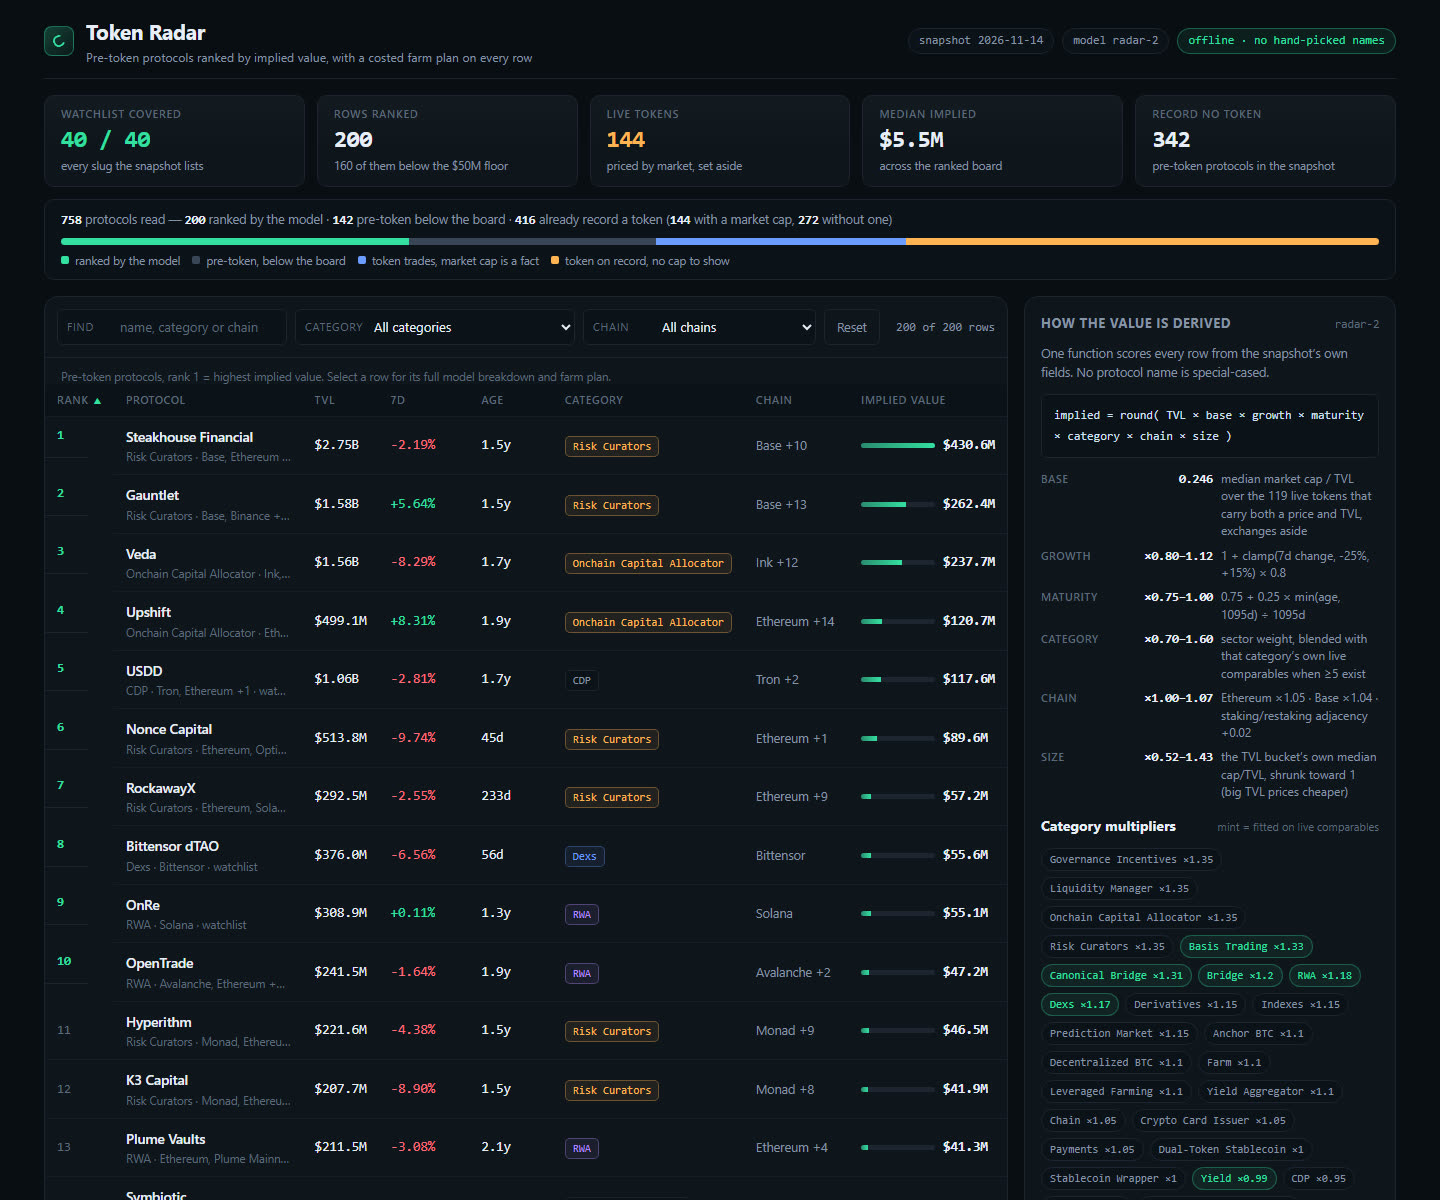
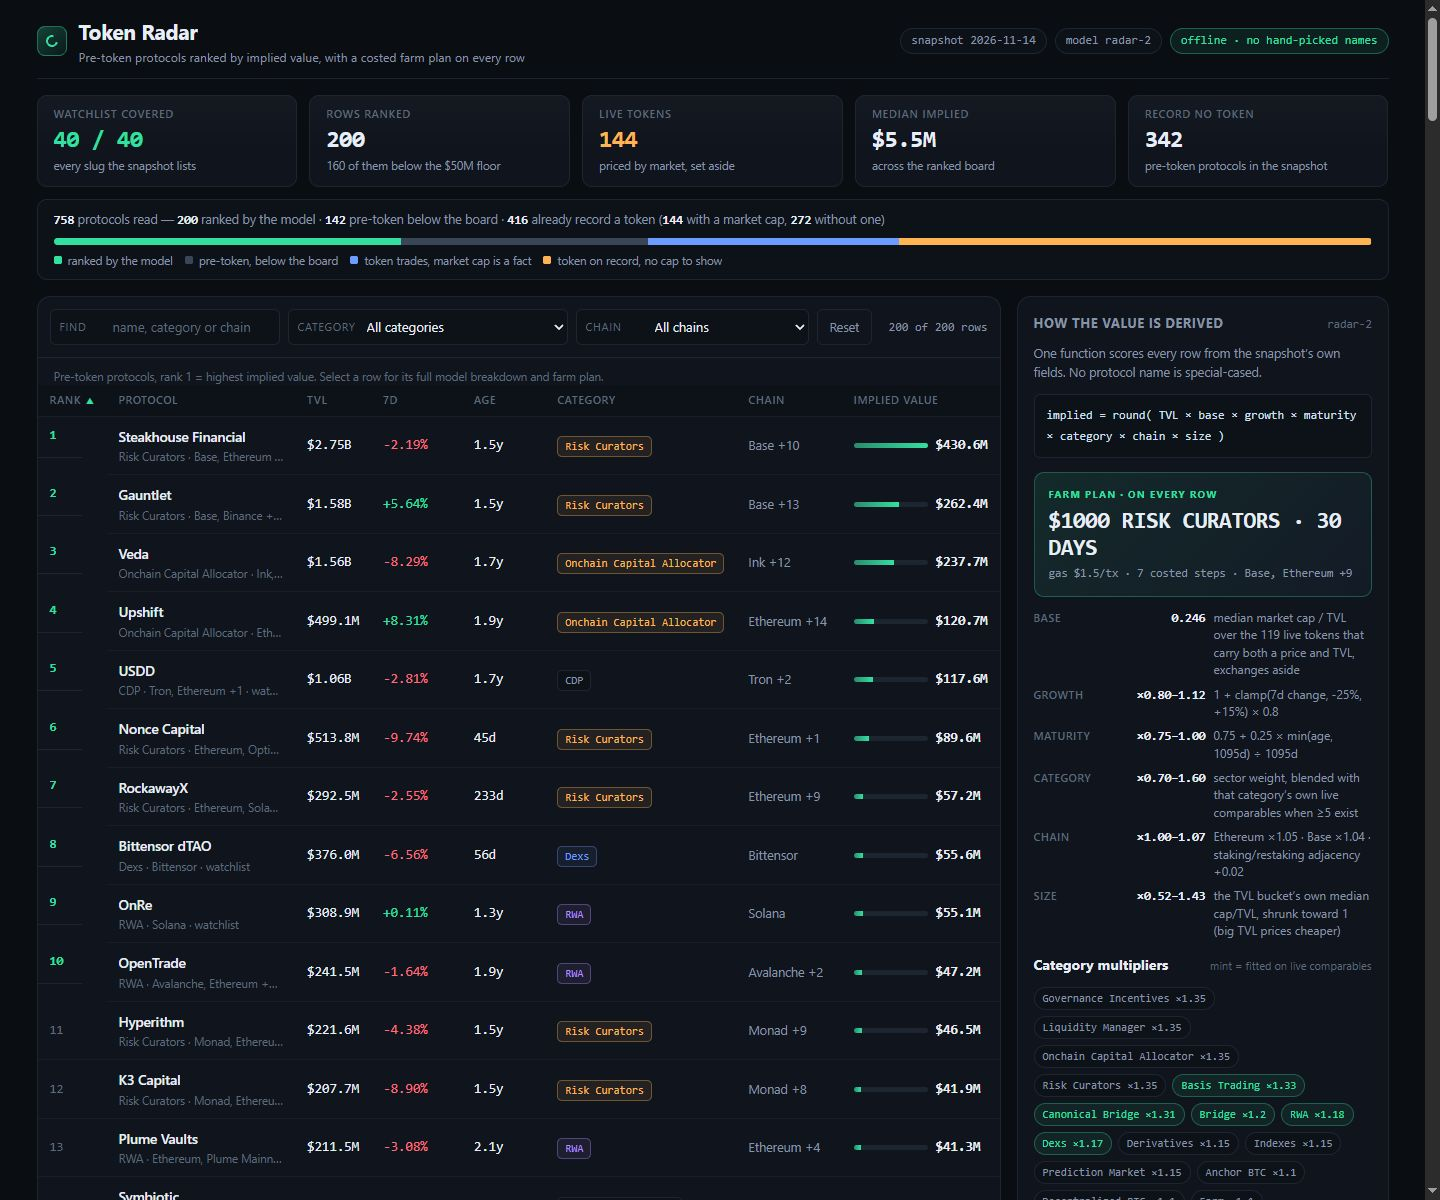
Judge-facing model note, costed plan card, category-aware farm steps

diff --git a/lib/model.ts b/lib/model.ts
@@ -524,6 +524,9 @@ function actionFor(p: SnapshotProtocol, capital: number, chain: string): string 
   if (c.includes('rwa')) {
     return `Mint $${capital} of ${name}'s tokenized yield asset on ${chain} through its own minting page, and hold the receipt tokens`;
   }
+  if (c.includes('restak')) {
+    return `Restake $${capital} of the chain's staking asset through ${name} on ${chain} into one operator, and keep the liquid receipt token in the same wallet`;
+  }
   if (c.includes('stak')) {
     return `Stake $${capital} of the chain's staking asset through ${name} on ${chain}, and keep the receipt token in the same wallet`;
   }
@@ -563,6 +566,25 @@ function actionFor(p: SnapshotProtocol, capital: number, chain: string): string 
   return `Deposit $${capital} of USDC into ${name} on ${chain}, and keep the position open through the window`;
 }
 
+/** The weekly on-chain action depends on what the category actually does. */
+function weeklyActionFor(p: SnapshotProtocol): string {
+  const c = (p.category ?? '').toLowerCase();
+  if (c.includes('dex') || c.includes('liquidity')) return 'claim LP fees or rebalance the price range';
+  if (c.includes('lend') || c.includes('cdp') || c.includes('collateral')) return 'top up collateral or claim supplied interest';
+  if (c.includes('restak')) return 'check the operator and restake the receipt token';
+  if (c.includes('rwa')) return 'check the mint receipt and refresh the allowlist';
+  if (c.includes('stak')) return 'claim staking rewards and restake them';
+  if (c.includes('yield') || c.includes('farm')) return 'harvest rewards and compound the vault shares';
+  return 'make one real on-chain action — a deposit, a claim or a vote';
+}
+
+/** 63 becomes 63rd, not 63th. */
+function ordinal(n: number): string {
+  const mod100 = n % 100;
+  if (mod100 >= 11 && mod100 <= 13) return `${n}th`;
+  return `${n}${({ 1: 'st', 2: 'nd', 3: 'rd' } as Record<number, string>)[n % 10] ?? 'th'}`;
+}
+
 /** A protocol's farm plan: seven steps, each an action with a cost and a time, built from its record. */
 export function farmPlan(p: SnapshotProtocol, age: number | null): { steps: FarmStep[]; capital: number; gas: number; days: number } {
   const chain = chainOf(p);
@@ -573,7 +595,7 @@ export function farmPlan(p: SnapshotProtocol, age: number | null): { steps: Farm
   const ageLabel = age === null ? 'an unlisted age' : age < 180 ? `${age} days on record` : `${(age / 365).toFixed(1)} years on record`;
   const steps: FarmStep[] = [
     {
-      text: `Open a fresh wallet for this position, move $${capital} of stablecoin into it plus about $${gas} for gas, and bookmark ${p.name}'s own app page from its documentation`,
+      text: `${p.category?.toLowerCase().includes('rwa') ? `Complete ${p.name}'s identity check (one business day), then ` : ''}Open a fresh wallet for this position, move $${capital} of stablecoin into it plus about $${gas} for gas, and bookmark ${p.name}'s own app page from its documentation`,
       cost: `$${capital} of capital plus $${gas} of gas`,
       time: '15 minutes to set up',
     },
@@ -583,7 +605,7 @@ export function farmPlan(p: SnapshotProtocol, age: number | null): { steps: Farm
       time: '15 minutes for the first transaction',
     },
     {
-      text: `Once every 7 days, make one real action inside ${p.name} - a deposit, a claim or a vote - so the position shows activity in consecutive weeks, not one day`,
+      text: `Once every 7 days, ${weeklyActionFor(p)} inside ${p.name}, so the position shows activity in consecutive weeks, not one day`,
       cost: `about $${gas} of gas a week`,
       time: '10 minutes a week',
     },
@@ -603,7 +625,7 @@ export function farmPlan(p: SnapshotProtocol, age: number | null): { steps: Farm
       time: '10 minutes at claim time',
     },
     {
-      text: `Withdraw on the ${hold + 3}th day, then log the entry date, exit date, fees paid and net result so the same position can be repeated or dropped`,
+      text: `Withdraw on the ${ordinal(hold + 3)} day, then log the entry date, exit date, fees paid and net result so the same position can be repeated or dropped`,
       cost: `about $${gas} of gas to exit`,
       time: '20 minutes to close and log',
     },

diff --git a/dashboard/app.js b/dashboard/app.js
@@ -339,6 +339,14 @@
       el('div', { class: 'formula' },
         'implied = round( TVL × base × growth × maturity × category × chain × size )'
       ),
+      (function () {
+        var demo = D.rows[0];
+        return el('div', { class: 'farmcard' },
+          el('div', { class: 'farmcard-k', text: 'FARM PLAN · ON EVERY ROW' }),
+          el('div', { class: 'farmcard-big', text: '$' + demo.farm.capital_usd + ' ' + (demo.category || 'DEPOSIT').toUpperCase() + ' · ' + demo.farm.days + ' DAYS' }),
+          el('div', { class: 'farmcard-sub', text: 'gas $' + demo.farm.gas_usd + '/tx · ' + demo.farm_steps.length + ' costed steps · ' + chainLabel(demo) })
+        );
+      })(),
       factorRows(),
       el('div', { class: 'subhead' }, el('h3', { text: 'Category multipliers' }), el('span', { text: 'mint = fitted on live comparables' })),
       el('div', { class: 'chips' }, cats.map(function (f) {

diff --git a/dashboard/z-app.css b/dashboard/z-app.css
@@ -269,3 +269,8 @@ dialog.detail::backdrop { background: rgba(4, 7, 11, 0.62); }
 @media (prefers-reduced-motion: reduce) {
   * { transition: none !important; animation: none !important; }
 }
+
+.farmcard { margin-top: 2px; padding: 14px; border: 1px solid rgba(52,224,161,0.30); border-radius: var(--r-m); background: linear-gradient(135deg, rgba(52,224,161,0.10), rgba(108,156,255,0.04)); }
+.farmcard-k { font: 650 10px/1.4 var(--sans); letter-spacing: 0.12em; color: var(--mint); text-transform: uppercase; }
+.farmcard-big { margin: 7px 0 4px; font: 700 23px/1.16 var(--mono); letter-spacing: -0.02em; color: var(--ink); }
+.farmcard-sub { font: 500 11.5px/1.45 var(--mono); color: var(--mut); }

diff --git a/dashboard/index.html b/dashboard/index.html
@@ -4,7 +4,7 @@
 <meta charset="utf-8">
 <meta name="viewport" content="width=device-width, initial-scale=1">
 <title>Token Radar: pre-token protocols ranked by implied value</title>
-<link rel="stylesheet" href="app.css">
+<link rel="stylesheet" href="z-app.css">
 </head>
 <body>
 <a class="skip" href="#board">Skip to the board</a>

diff --git a/dashboard/0-model.md b/dashboard/0-model.md
@@ -1,0 +1,54 @@
+# How this radar prices an unlaunched protocol — and how to farm it
+
+This board comes from one sealed snapshot (`as_of` 2026-11-14, DefiLlama). No protocol name is on a list and nothing is special-cased. Every number comes from the snapshot fields `tvl_usd`, `change_7d`, `listed_at`, `category`, `chains`, and `mcap_usd`. The page recomputes the same number from the same fields: `impliedOf()` in `dashboard/app.js` and `impliedValue()` in `lib/model.ts` agree row by row, including the detail drawer's "Recomputed on this page" check.
+
+## The formula
+
+```
+implied = max(1, round(TVL × base × growth × maturity × category × chain × size))
+```
+
+**base = 0.2459877056611089** — the median `mcap_usd / tvl_usd` over the **119** live tokens in this snapshot that carry both a price and TVL, with exchanges excluded. It is fitted at run time from the snapshot, never typed in.
+
+**growth = 1 + clamp(change_7d, −25%, +15%) × 0.80**. Seven-day change is the snapshot's own figure.
+
+**maturity = 0.75 + 0.25 × min(age_days, 1095) / 1095**, where `age_days` counts from `listed_at` to the snapshot date. A protocol with no usable listing date uses 365 days.
+
+**category** starts at a sector prior (allocator 1.35, RWA 1.30, trade 1.15, yield 1.10, chain 1.05, lending 0.95, stake 0.95, stable 1.00, other 1.00). A category with at least five live comparables in this snapshot blends its own median cap/TVL toward that prior with weight `n / (n + 10)`:
+`multiplier = exp(w × ln(sqrt(own_median / base)) + (1 − w) × ln(prior))`, clamped to 0.70–1.60.
+Fitted on this snapshot: **Basis Trading ×1.3280 (7 comps), Canonical Bridge ×1.3149 (8), RWA ×1.1786 (9), Dexs ×1.1655 (11), Bridge ×1.2016 (6), Yield ×0.9908 (9), CDP ×0.95 (3 → prior)**. A category's multiplier is a number read off the data, not a name picked by hand.
+
+**size** shrinks the bucket's own median cap/TVL toward the base: `exp(0.5 × n/(n+10) × ln(median_ratio / base))`, clamped to 0.50–1.60. Four buckets, all fitted here:
+
+| TVL bucket | live comps | median cap/TVL | multiplier |
+|---|---:|---:|---:|
+| $1B and up | 10 | 0.0183 | ×0.5222 |
+| $100M – $1B | 16 | 0.0820 | ×0.7132 |
+| $10M – $100M | 66 | 0.3016 | ×1.0925 |
+| under $10M | 27 | 0.6544 | ×1.4290 |
+
+**chain = 1.05** when Ethereum is listed, else **1.04** for Base, else 1.00; staking and restaking sectors add 0.02.
+
+## Already-traded tokens are set apart
+
+`isPreToken()` requires `mcap_usd`, `gecko_id` and `symbol` all to be null. The snapshot has **144 live priced tokens**: they are shown in the "Live tokens" panel with the market's own market cap and cap/TVL, never with an implied value and never in the ranking. Another 272 protocols record a token without a price. The **40 watchlist slugs are the floor**, all covered; **160 more** pre-token protocols below the $50M floor are added by TVL, giving **200 ranked rows**. Rank 1 is the highest implied value; the board is not a hand-picked shortlist.
+
+## Worked examples, end to end
+
+- **OnRe (RWA, Solana, rank 9).** TVL $308,882,355; 7d +0.1082%; age 488 d; no market cap. `growth = 1 + 0.001082×0.8 = 1.0008656`; `maturity = 0.75 + 0.25×488/1095 = 0.8614155`; category ×1.1785706; chain ×1.00; size (the $100M–$1B bucket) ×0.7131531. Rounded implied value: **$55,059,634**. Plan: **$500** into its tokenized yield asset on Solana, **$0.05** gas per transaction, KYC/allowlist first, **30 days**, seven costed steps.
+- **Bittensor dTAO (Dexs, Bittensor, rank 8).** TVL $376,026,255; 7d −6.5592%; age 56 d. `growth = 0.9475264`; `maturity = 0.7627854`; category ×1.1655479; chain ×1.00; size ×0.7131531 → **$55,569,712**. Plan: **$500** of LP in the deepest pool, **$4** gas per transaction on Bittensor, weekly fee claim or range rebalance, **60 days**.
+- **Mantle Restaking (Liquid Restaking, Ethereum, rank 78).** TVL $30,980,107; 7d −13.6638%; age 731 d. `growth = 0.8906896`; `maturity = 0.9168950`; category ×0.95; chain ×1.07 (Ethereum + staking adjacency); size ×1.0925320 → **$6,911,684**. Plan: **$250** restaked to one operator, **$12** gas per Ethereum transaction, weekly operator/status check, **30 days**.
+
+## Farm plans are instructions, not slogans
+
+Every row carries 3–12 steps; each step is `action + Cost: … + Time: …`. `parseStep()` in `dashboard/app.js` splits that string so the detail view shows cost and duration as separate labelled chips. Capital follows the TVL tier ($1,000 / $500 / $250 / $100); gas follows the chain (Ethereum $12, Bitcoin $3, Solana $0.05, Algorand $0.01, Tron $2, L2s $1.50, other $4); the holding window is 60 / 45 / 30 days by age. The weekly action is category-specific: LP fee claim or range rebalance for Dexs, collateral top-up or interest claim for Lending, operator check and restake for Restaking, allowlist/KYC check for RWA. Every plan also records the TVL at entry, a 30% TVL drawdown exit rule, an official-site-only claim rule, and an exit day with a net-result log.
+
+## Where each claim lives in the source
+
+`impliedOf()` recomputes the row from the six factors; `growthMultOf()` and `maturityMultOf()` clamp the snapshot's 7d change and age; `factorRows()` prints the fitted ranges; `modelPanel()` shows the formula and fitted category multipliers; `parseStep()` splits a farm step into action, cost and time; `openDetail()` rebuilds the whole factor chain for one protocol and re-checks the number against `board.json`; `liveSection()` and `liveMini()` show the already-traded tokens separately. `rows()` and `sortedRows()` filter by text, category and chain and sort by any column, with the URL hash preserving the view. The three screenshots in `screenshots/` are captures of this same page: the board, one detail drawer and a filtered view. "Records no token" describes the snapshot's record, not proof that no token exists; nothing here is financial advice.
+
+## Source map for a reviewer
+- Radar + screenshots: `header()`, `kpis()`, `coverage()`, `boardTable()`, `modelPanel()`, `openDetail()` — the three images in `screenshots/` are captures of this page.
+- Value model: `impliedOf()`, `growthMultOf()`, `maturityMultOf()`, `factorRows()`.
+- Farm plans: `parseStep()` and the plan section of `openDetail()`.
+- Page controls: `rows()`, `sortedRows()`, `readHash()`, `writeHash()`.
